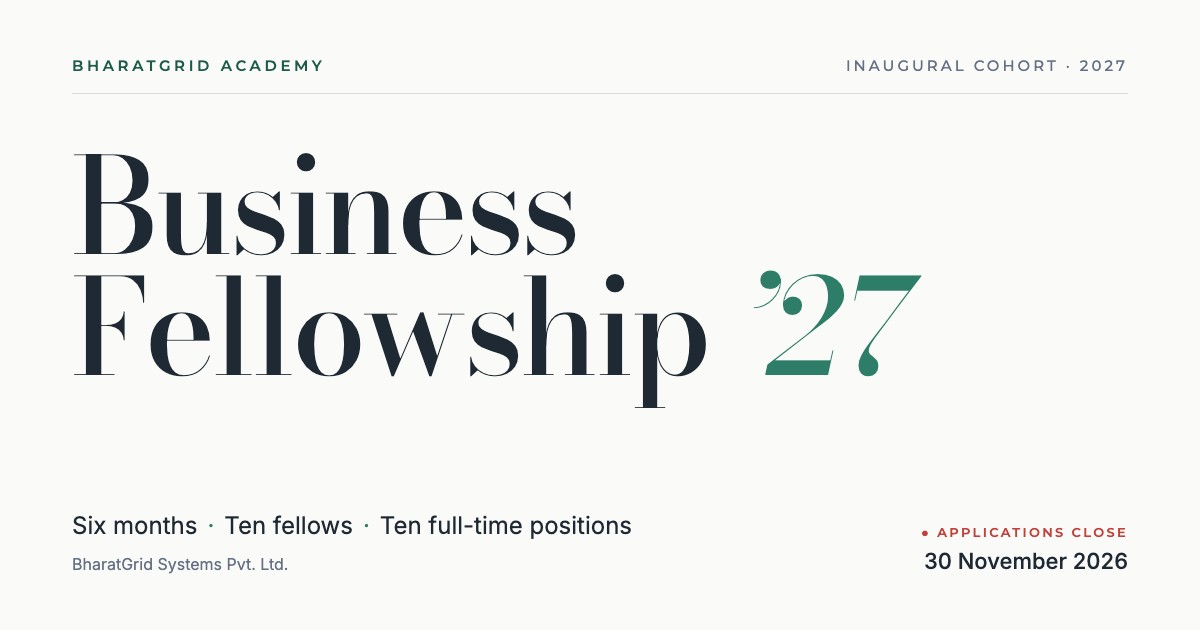
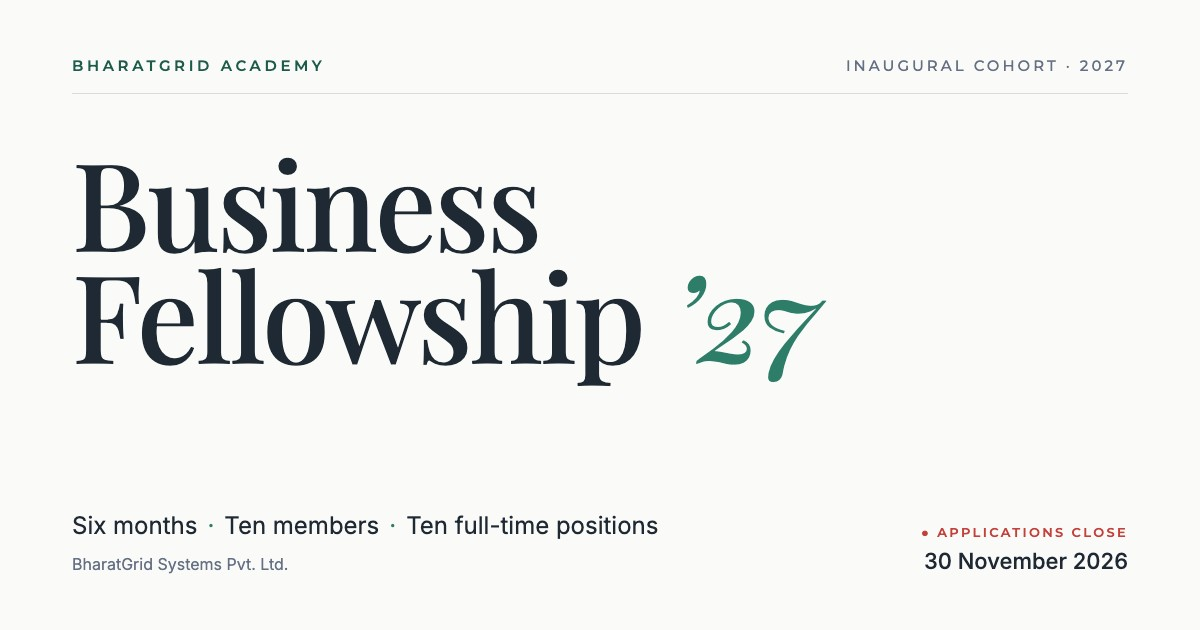
Academy: members, Playfair Display, no pay details; Academy on the home page
- "fellows" are "members" everywhere (the programme keeps its name,
  Business Fellowship '27), including the share text and image
- Playfair Display replaces Bodoni Moda for display type
- no stipend or commission figures anywhere: each team panel ends on
  what the team is for instead
- home page: a BharatGrid Academy section after Businesses, introducing
  the Academy and the fellowship, linking to /academy and the form (and
  saying applications have closed after the deadline)

Changed region(s): [[0.0617, 0.2413, 0.7708, 0.6635], [0.2158, 0.8143, 0.555, 0.8746], [0.0617, 0.573, 0.0925, 0.6032]]

diff --git a/src/academy/Academy.tsx b/src/academy/Academy.tsx
@@ -50,7 +50,7 @@ const GLANCE: [string, ReactNode][] = [
   ["Organiser", <>BharatGrid Academy, {fellowship.company}</>],
   ["Duration", <>Six months, January – June 2027</>],
   ["Programme begins", fellowship.begins],
-  ["Intake", <>Ten fellows</>],
+  ["Intake", <>Ten members</>],
   ["Selection", <>Interview only. No CV required.</>],
   ["Outcome", <>Designed to lead to full-time roles at BharatGrid on successful completion</>],
 ];
@@ -87,13 +87,13 @@ const JOURNEY = [
     n: "02",
     title: "Apply",
     when: "April – June 2027",
-    text: "Three months inside BharatGrid’s marketing and sales operations, on real campaigns, clients and commercial work, with a stipend or uncapped commission.",
+    text: "Three months inside BharatGrid’s marketing and sales operations, on real campaigns, clients and commercial work.",
   },
   {
     n: "03",
     title: "Build your career",
     when: "On completion",
-    text: "Fellows who successfully complete the programme are intended to transition into full-time roles at BharatGrid.",
+    text: "Members who successfully complete the programme are intended to transition into full-time roles at BharatGrid.",
   },
 ];
 
@@ -114,27 +114,18 @@ const TEAMS = [
   {
     name: "Marketing Team",
     work: ["Marketing campaigns", "Market research", "Customer acquisition", "Lead generation", "Distribution", "Performance analysis", "Growth operations"],
-    pay: "₹15,000",
-    payNote: "Fixed stipend for the full three-month practical phase.",
-    footnote: null as ReactNode,
+    focus: "Bringing customers to the business, and measuring what works.",
   },
   {
     name: "Sales & Business Development Team",
     work: ["Prospecting", "Real client interactions", "Business development", "Sales meetings", "Follow-ups", "Negotiations", "Commercial conversions"],
-    pay: "Uncapped",
-    payNote: "Performance-based commission, with no fixed stipend.",
-    footnote: (
-      <>
-        High-performing fellows may earn ₹50,000 or more a month in commission. This is neither guaranteed nor typical: earnings depend
-        entirely on actual sales results.
-      </>
-    ),
+    focus: "Turning conversations into clients, and clients into revenue.",
   },
 ];
 
 const ENVIRONMENT = [
   ["Company management", "Both teams work inside BharatGrid, in a structured corporate environment under the company’s management."],
-  ["Clear responsibilities", "Every fellow has defined responsibilities, owned and reviewed as in any professional role."],
+  ["Clear responsibilities", "Every member has defined responsibilities, owned and reviewed as in any professional role."],
   ["Performance expectations", "Work is measured against clear expectations. Results matter."],
 ];
 
@@ -157,7 +148,7 @@ const PROCESS = [
   ["Review", "Applications are reviewed for interview shortlisting."],
   ["Interview", "Shortlisted candidates are invited to interview."],
   ["Selection", "Ten candidates are selected for the inaugural cohort."],
-  ["Begin", `Selected fellows begin the programme on ${fellowship.begins}.`],
+  ["Begin", `Selected members begin the programme on ${fellowship.begins}.`],
 ];
 
 const TIMELINE = [
@@ -180,7 +171,7 @@ function Hero() {
         <Reveal delay={60}>
           <h1
             id="fellowship-title"
-            className="mt-12 font-display text-[clamp(3.3rem,9.6vw,8.6rem)] font-medium leading-[0.92] tracking-[-0.02em] text-ac-charcoal md:mt-14"
+            className="mt-12 font-display text-[clamp(2.75rem,11vw,8.6rem)] md:text-[clamp(3.3rem,9.6vw,8.6rem)] font-medium leading-[0.92] tracking-[-0.02em] text-ac-charcoal md:mt-14"
           >
             Business
             <br />
@@ -208,7 +199,7 @@ function Hero() {
             <Reveal delay={260}>
               <p className="mt-10 max-w-[38rem] border-t border-ac-charcoal/12 pt-6 text-[16px] leading-[1.7] text-ac-slate">
                 Not an internship, and not an online certificate. A selective pathway from training to employment, designed to lead to
-                full-time roles at BharatGrid for fellows who successfully complete it.
+                full-time roles at BharatGrid for members who successfully complete it.
               </p>
             </Reveal>
           </div>
@@ -322,7 +313,7 @@ function Training() {
             Intensive Professional Training
           </Title>
           <p className="mt-8 text-[17px] leading-[1.75] text-ac-charcoal/85">
-            All ten fellows complete approximately 120 hours of structured professional training over three months. The training is built to
+            All ten members complete approximately 120 hours of structured professional training over three months. The training is built to
             develop capability, not just knowledge: every area is taught, practised, evaluated and reviewed.
           </p>
           <div className="mt-10 flex items-baseline gap-4 border-t border-ac-charcoal/15 pt-8">
@@ -357,8 +348,8 @@ function Training() {
           </ol>
           <Reveal className="mt-10 border-l-2 border-ac-crimson pl-6">
             <p className="text-[15.5px] leading-[1.7] text-ac-charcoal/85">
-              This is a demanding programme, and it expects serious commitment. Fellows are held to professional standards from the first week.
-              The detailed curriculum is shared with selected fellows.
+              This is a demanding programme, and it expects serious commitment. Members are held to professional standards from the first week.
+              The detailed curriculum is shared with selected members.
             </p>
           </Reveal>
         </div>
@@ -379,7 +370,7 @@ function Immersion() {
         </Reveal>
         <Reveal delay={100} className="lg:col-span-6">
           <p className="text-[17px] leading-[1.75] text-ac-charcoal/85 lg:mt-12">
-            For the second half of the programme, all ten fellows move into BharatGrid’s working environment. They are divided into two teams
+            For the second half of the programme, all ten members move into BharatGrid’s working environment. They are divided into two teams
             and take on real responsibilities: actual campaigns, actual clients and actual commercial operations. The aim is experience, not
             theory.
           </p>
@@ -402,10 +393,8 @@ function Immersion() {
             </ul>
             <div className="mt-auto pt-10">
               <div className="border-t border-ac-charcoal/15 pt-7">
-                <p className="font-label text-[11.5px] font-semibold uppercase tracking-[0.16em] text-ac-charcoal">Compensation</p>
-                <p className="mt-3 font-display text-[2.6rem] font-medium leading-none text-ac-forest">{t.pay}</p>
-                <p className="mt-3 text-[15px] leading-relaxed text-ac-charcoal/85">{t.payNote}</p>
-                {t.footnote && <p className="mt-4 text-[13.5px] leading-relaxed text-ac-slate">{t.footnote}</p>}
+                <p className="font-label text-[11.5px] font-semibold uppercase tracking-[0.16em] text-ac-charcoal">The focus</p>
+                <p className="mt-3 font-display text-[1.45rem] italic leading-snug text-ac-forest">{t.focus}</p>
               </div>
             </div>
           </Reveal>
@@ -431,7 +420,7 @@ function Employment() {
         <Reveal className="lg:col-span-7">
           <p className="font-label text-[12px] font-semibold uppercase tracking-[0.2em] text-ac-sage">Full-time employment</p>
           <h2 id="employment-title" className="mt-6 font-display text-[clamp(2.6rem,6vw,5.2rem)] font-medium leading-[1] tracking-[-0.015em]">
-            Ten fellows.
+            Ten members.
             <br />
             <span className="italic text-ac-sage">Ten full-time positions.</span>
           </h2>
@@ -439,7 +428,7 @@ function Employment() {
         <Reveal delay={120} className="lg:col-span-5">
           <p className="text-[17px] leading-[1.75] text-white/85">
             The fellowship is designed as a pathway into employment, not a certificate to collect. Upon successful completion of the programme,
-            all ten fellows are intended to transition into full-time roles at BharatGrid.
+            all ten members are intended to transition into full-time roles at BharatGrid.
           </p>
           <div className="mt-10">
             <ApplyButton label="Apply for the Fellowship" variant="light" />
@@ -521,7 +510,7 @@ function Selection() {
           <Reveal delay={80} className="mt-12 grid grid-cols-[auto_1fr] items-center gap-6">
             <span className="font-display text-[5.5rem] font-medium leading-none text-ac-forest">10</span>
             <p className="text-[15.5px] leading-[1.65] text-ac-charcoal/85">
-              The inaugural cohort is limited to ten fellows, and is aimed at final-year BBA students.
+              The inaugural cohort is limited to ten members, and is aimed at final-year BBA students.
             </p>
           </Reveal>
         </div>
@@ -630,7 +619,7 @@ const structuredData = () =>
     "@type": "EducationalOccupationalProgram",
     name: fellowship.name.replace("’", "'"),
     description:
-      "An intensive six-month professional fellowship by BharatGrid Academy: three months of professional training followed by three months of corporate experience in marketing or sales, with full-time roles at BharatGrid for fellows who successfully complete it.",
+      "An intensive six-month professional fellowship by BharatGrid Academy: three months of professional training followed by three months of corporate experience in marketing or sales, with full-time roles at BharatGrid for members who successfully complete it.",
     url: fellowship.url,
     provider: {
       "@type": "Organization",

diff --git a/src/components/AcademySection.tsx b/src/components/AcademySection.tsx
@@ -1,0 +1,89 @@
+import { ApplicationsProvider, useApplications } from "../academy/apply";
+import { APPLY_URL, fellowship } from "../academy/config";
+import { Reveal } from "./ui";
+
+const FACTS: [string, string][] = [
+  ["Duration", "Six months, from 1 January 2027"],
+  ["Intake", "Ten members"],
+  ["Outcome", "Ten full-time positions at BharatGrid"],
+  ["Applications close", `${fellowship.closes}, ${fellowship.closesTime}`],
+];
+
+/** The home page's introduction to BharatGrid Academy; /academy has the rest. */
+export function AcademySection() {
+  return (
+    <ApplicationsProvider>
+      <section id="academy" aria-labelledby="academy-title" className="bg-ac-forest px-6 py-28 text-white sm:px-10 md:py-40 lg:py-48">
+        <div className="mx-auto max-w-6xl">
+          <Reveal>
+            <p className="text-[13px] font-semibold uppercase tracking-[0.16em] text-ac-sage">BharatGrid Academy</p>
+            <h2 id="academy-title" className="mt-6 max-w-3xl text-[clamp(2.1rem,4.4vw,3.5rem)] font-semibold leading-[1.08] tracking-[-0.03em]">
+              Professional education, inside a working company.
+            </h2>
+            <p className="mt-7 max-w-2xl text-[clamp(1.05rem,1.4vw,1.2rem)] leading-[1.7] text-white/80">
+              BharatGrid Academy is our professional education and career development initiative. It exists to close the gap between academic
+              education and real-world professional capability, by training people properly and then putting that training to work on real
+              business.
+            </p>
+          </Reveal>
+
+          <Reveal delay={100} className="mt-16 border-t border-white/20 pt-12 md:mt-24 md:pt-16">
+            <div className="grid gap-14 lg:grid-cols-12 lg:gap-12">
+              <div className="lg:col-span-7">
+                <p className="text-[12px] font-semibold uppercase tracking-[0.16em] text-ac-sage">Inaugural programme</p>
+                <h3 className="mt-5 font-display text-[clamp(2.6rem,5.6vw,4.6rem)] font-medium leading-[0.98] tracking-[-0.01em]">
+                  Business Fellowship <span className="italic text-ac-sage">’27</span>
+                </h3>
+                <p className="mt-7 max-w-xl text-[17px] leading-[1.75] text-white/85">
+                  A selective six-month fellowship for ten members: three months of intensive professional training, then three months of
+                  real marketing and sales work inside BharatGrid. It is designed to lead to full-time roles for members who successfully
+                  complete it. Selection is by interview, with no CV required.
+                </p>
+                <Actions />
+              </div>
+              <dl className="self-end border-t border-white/20 lg:col-span-5">
+                {FACTS.map(([k, v]) => (
+                  <div key={k} className="grid grid-cols-[9.5rem_1fr] gap-4 border-b border-white/15 py-4 text-[15px] leading-snug">
+                    <dt className="pt-[2px] text-[12px] font-semibold uppercase tracking-[0.12em] text-white/55">{k}</dt>
+                    <dd className="text-white">{v}</dd>
+                  </div>
+                ))}
+              </dl>
+            </div>
+          </Reveal>
+        </div>
+      </section>
+    </ApplicationsProvider>
+  );
+}
+
+function Actions() {
+  const { open } = useApplications();
+  return (
+    <div className="mt-10 flex flex-wrap items-center gap-x-10 gap-y-5">
+      <a
+        href="./academy"
+        className="group inline-flex items-center gap-2.5 rounded-full bg-white px-7 py-4 text-[15px] font-medium text-ac-forest transition-colors hover:bg-ac-sage focus-visible:outline-white"
+      >
+        Explore the Fellowship
+        <span aria-hidden="true" className="transition-transform duration-300 group-hover:translate-x-0.5">
+          →
+        </span>
+      </a>
+      {open ? (
+        <a
+          href={APPLY_URL}
+          target="_blank"
+          rel="noopener"
+          className="inline-flex items-center gap-2 text-[15px] font-medium text-white underline decoration-white/40 underline-offset-[6px] hover:decoration-white focus-visible:outline-white"
+        >
+          Apply now
+          <span aria-hidden="true">↗</span>
+          <span className="sr-only"> (opens the application form in a new tab)</span>
+        </a>
+      ) : (
+        <p className="text-[15px] text-white/70">Applications for the inaugural cohort have closed.</p>
+      )}
+    </div>
+  );
+}

diff --git a/academy.html b/academy.html
@@ -18,7 +18,7 @@
     <meta property="og:title" content="Business Fellowship ’27 · BharatGrid Academy" />
     <meta
       property="og:description"
-      content="Six months. Ten fellows. Ten full-time positions. Professional training, then real work inside an operating company. Applications close 30 November 2026."
+      content="Six months. Ten members. Ten full-time positions. Professional training, then real work inside an operating company. Applications close 30 November 2026."
     />
     <meta property="og:url" content="https://bharatgridsystems.com/academy" />
     <meta property="og:image" content="https://bharatgridsystems.com/og-academy.jpg" />
@@ -30,7 +30,7 @@
     <meta name="twitter:title" content="Business Fellowship ’27 · BharatGrid Academy" />
     <meta
       name="twitter:description"
-      content="Six months. Ten fellows. Ten full-time positions. Applications close 30 November 2026."
+      content="Six months. Ten members. Ten full-time positions. Applications close 30 November 2026."
     />
     <meta name="twitter:image" content="https://bharatgridsystems.com/og-academy.jpg" />
 

diff --git a/src/App.tsx b/src/App.tsx
@@ -1,5 +1,6 @@
 import { company } from "./company";
 import { About } from "./components/About";
+import { AcademySection } from "./components/AcademySection";
 import { Businesses } from "./components/Businesses";
 import { Contact } from "./components/Contact";
 import { Footer } from "./components/Footer";
@@ -45,6 +46,7 @@ export default function App() {
         <Hero />
         <About />
         <Businesses />
+        <AcademySection />
         <Contact />
       </main>
       <Footer />

diff --git a/src/academy/main.tsx b/src/academy/main.tsx
@@ -1,8 +1,8 @@
 import { StrictMode } from "react";
 import { hydrateRoot } from "react-dom/client";
 import "@fontsource-variable/inter";
-import "@fontsource-variable/bodoni-moda/opsz.css";
-import "@fontsource-variable/bodoni-moda/opsz-italic.css";
+import "@fontsource-variable/playfair-display";
+import "@fontsource-variable/playfair-display/wght-italic.css";
 import "@fontsource-variable/montserrat";
 import "../index.css";
 import Academy from "./Academy";

diff --git a/src/index.css b/src/index.css
@@ -17,7 +17,7 @@
   --color-green: #0b6b3a;
 
   /* BharatGrid Academy (/academy) */
-  --font-display: "Bodoni Moda Variable", "Bodoni Moda", "Bodoni 72", Didot, "Times New Roman", serif;
+  --font-display: "Playfair Display Variable", "Playfair Display", Georgia, "Times New Roman", serif;
   --font-label: "Montserrat Variable", "Montserrat", "Inter Variable", -apple-system, "Segoe UI", sans-serif;
   --color-ac-emerald: #2e7d68;
   --color-ac-forest: #1e5b4b;

diff --git a/src/main.tsx b/src/main.tsx
@@ -1,6 +1,8 @@
 import { StrictMode } from "react";
 import { hydrateRoot } from "react-dom/client";
 import "@fontsource-variable/inter";
+import "@fontsource-variable/playfair-display";
+import "@fontsource-variable/playfair-display/wght-italic.css";
 import "./index.css";
 import App from "./App";
 
